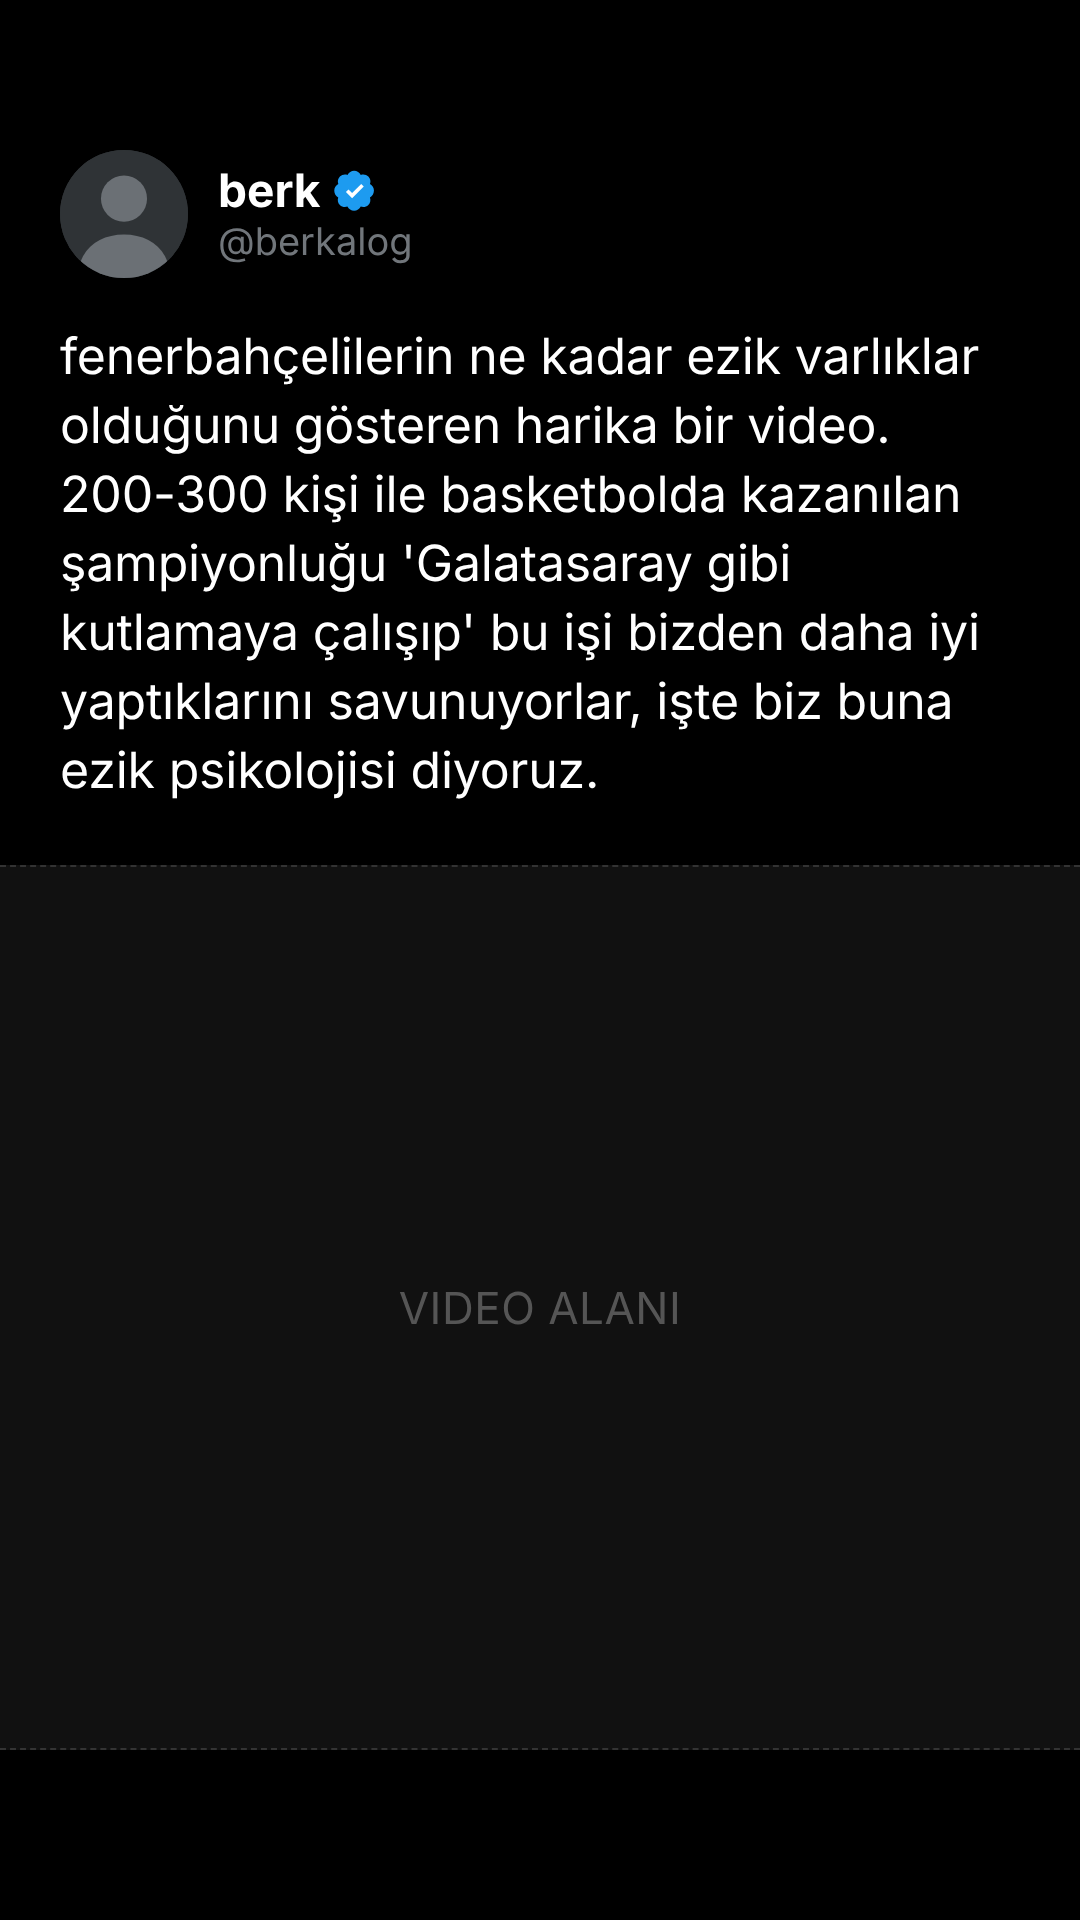
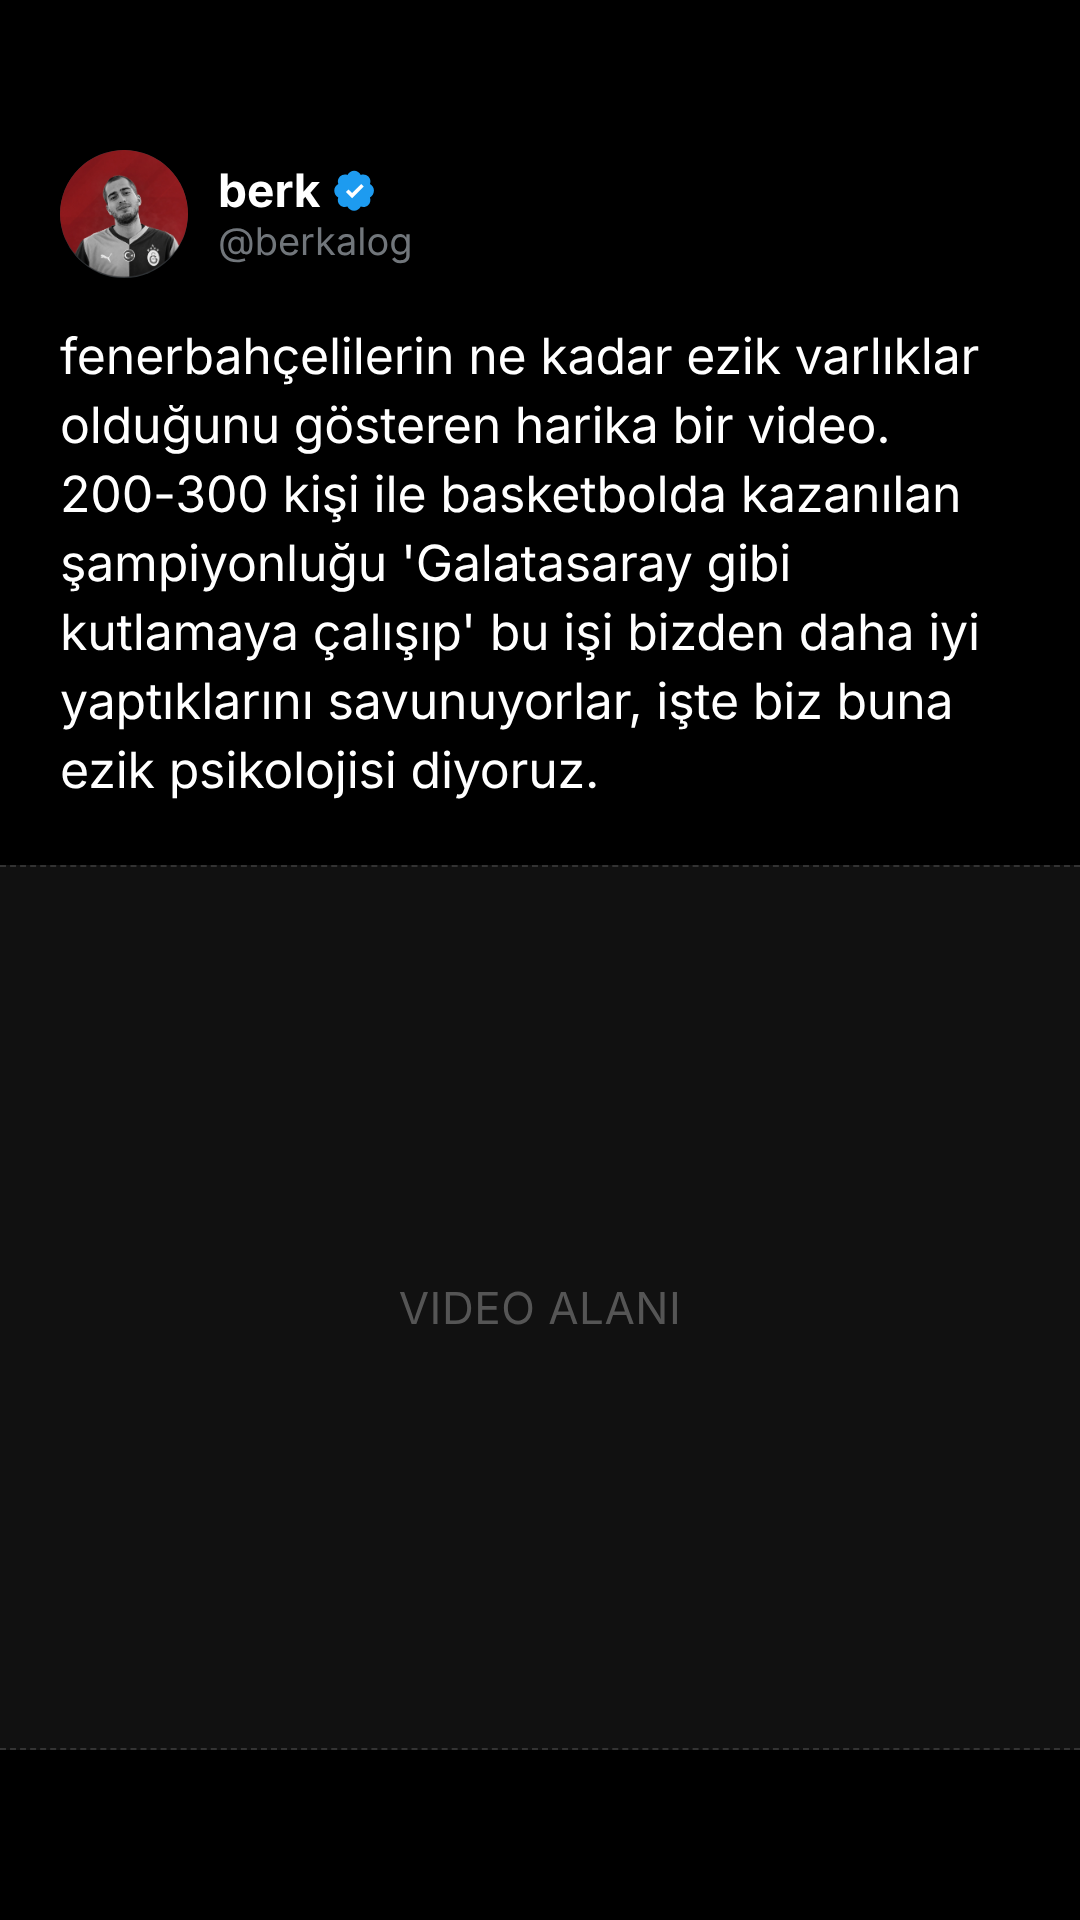
Add profile photo to post template
Claude-Session: https://claude.ai/code/session_01PTydXy8xCLB8geZVypBLvD

Changed region(s): [[0.0306, 0.0625, 0.1833, 0.1562]]

diff --git a/post-template/index.html b/post-template/index.html
@@ -80,7 +80,7 @@
   const CONFIG = {
     name:   "berk",
     handle: "@berkalog",
-    avatar: "",   // profil foto yolu, ornek: "avatar.jpg"  (bos ise gri placeholder)
+    avatar: "avatar.webp",   // profil foto yolu (bos ise gri placeholder)
     video:  "",   // video yolu, ornek: "clip.mp4"          (bos ise placeholder)
     text:
 `fenerbahçelilerin ne kadar ezik varlıklar olduğunu gösteren harika bir video. 200-300 kişi ile basketbolda kazanılan şampiyonluğu 'Galatasaray gibi kutlamaya çalışıp' bu işi bizden daha iyi yaptıklarını savunuyorlar, işte biz buna ezik psikolojisi diyoruz.`
